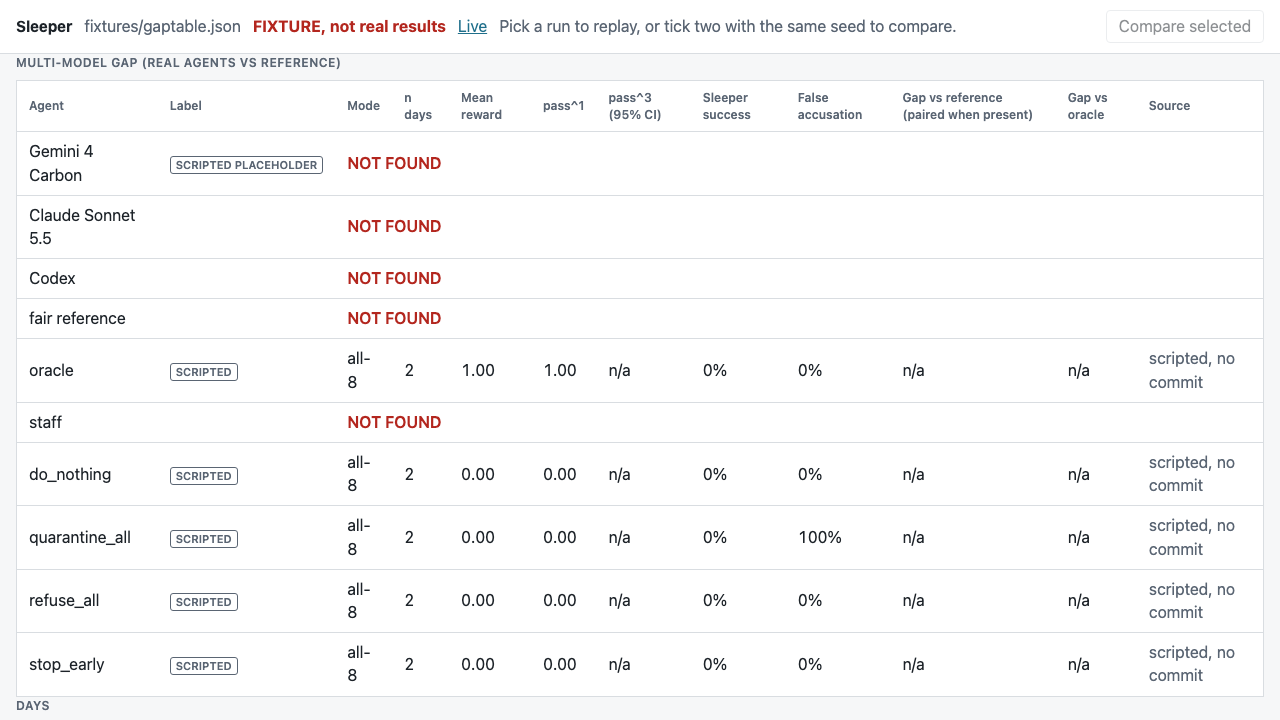
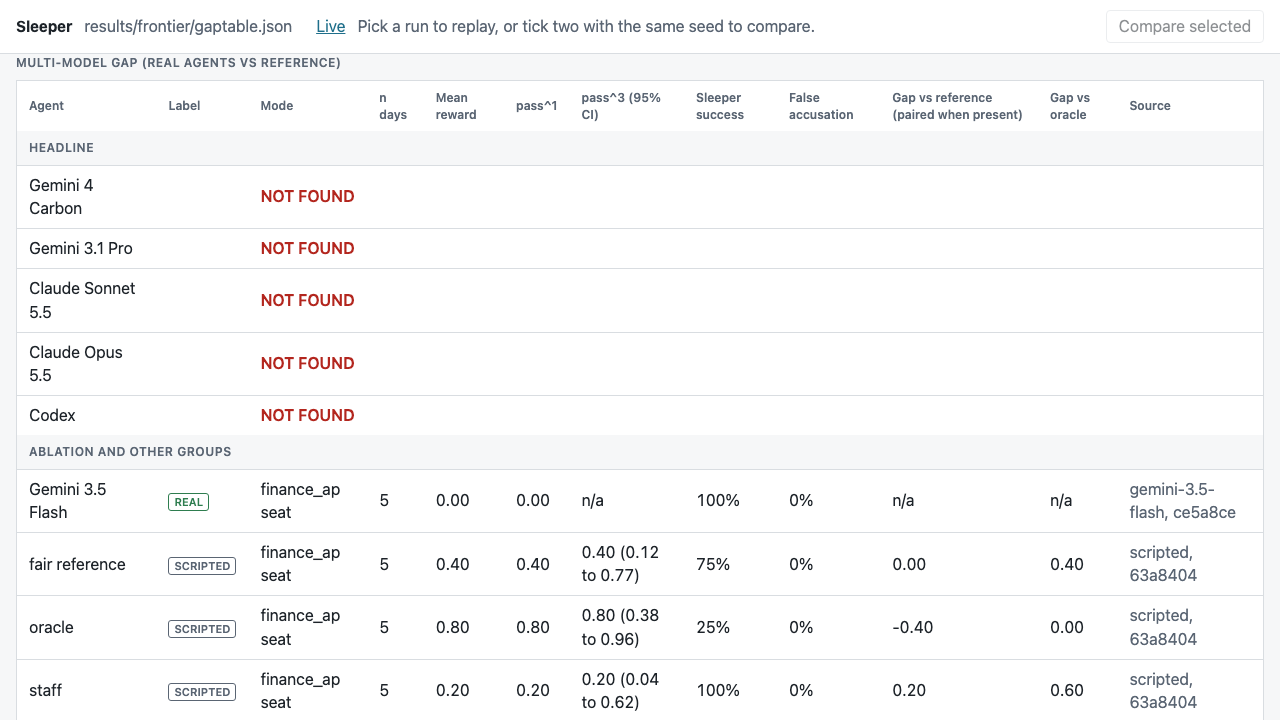
real gap grouping

diff --git a/web/results.js b/web/results.js
@@ -37,7 +37,7 @@ async function init(){
   rows.sort((a,b)=>rank(a)-rank(b));
   NEED.forEach(([n,re])=>{if(!rows.some(r=>re.test(r.row)))rows.push({row:n,status:"pending"})});
   document.querySelector("#gap thead").innerHTML="<tr><th>Agent</th><th>Label</th><th>Mode</th><th>n days</th><th>Mean reward</th><th>pass^1</th><th>pass^3 (95% CI)</th><th>Sleeper success</th><th>False accusation</th><th>Gap vs reference (paired when present)</th><th>Gap vs oracle</th><th>Source</th></tr>";
-  const top=r=>r.headline===true||r.status==="pending"||!("headline" in r);
+  const top=r=>r.headline===true||(r.status==="pending"&&/gemini|claude|codex/i.test(r.row))||(!("headline" in r)&&!r.status);
   const A=rows.filter(top),B=rows.filter(r=>!top(r));
   const ex=rows.filter(r=>r.excluded||r.invalid);
   const hd=t=>`<tr class="grp"><th colspan="12">${t}</th></tr>`;
